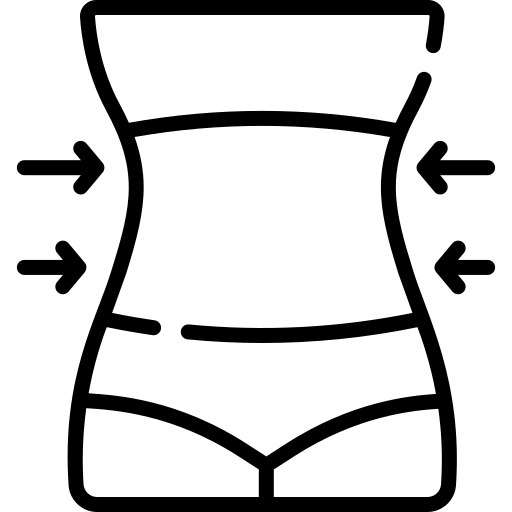
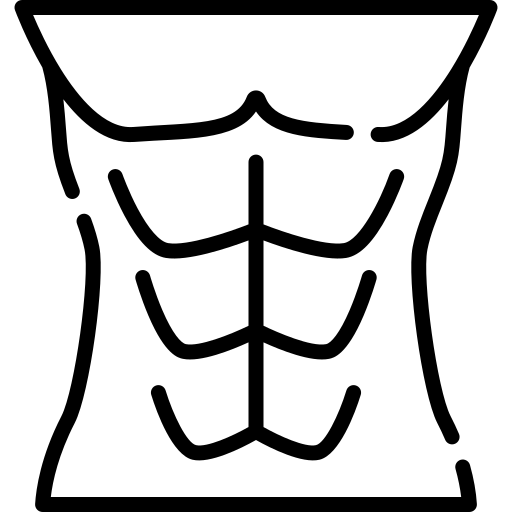
Working With Api Data Dispay

Changed region(s): [[0.0312, 0.0, 0.9688, 1.0]]

diff --git a/src/components/workout/Workout.jsx b/src/components/workout/Workout.jsx
@@ -4,11 +4,9 @@ import axios from 'axios';
 import back from '../../assets/workout_img/back.png'
 import cardio from '../../assets/workout_img/cardio.png'
 import chest from '../../assets/workout_img/chest.png'
-import lower_arms from '../../assets/workout_img/lower arms.png'
 import lower_legs from '../../assets/workout_img/lower legs.png'
 import neck from '../../assets/workout_img/neck.png'
 import upper_arms from '../../assets/workout_img/upper arms.png'
-import upper_legs from '../../assets/workout_img/upper legs.png'
 import shoulders from '../../assets/workout_img/shoulders.png'
 import waist from '../../assets/workout_img/waist.png'
 
@@ -16,13 +14,11 @@ const workoutImages = [
     {name: "back", url: back},
     {name: "cardio", url: cardio},
     {name: "chest", url: chest},
-    {name: "lower arms", url: lower_arms},
-    {name: "lower legs", url: lower_legs},
+    {name: "legs", url: lower_legs},
     {name: "neck", url: neck},
     {name: "shoulder", url: shoulders},
-    {name: "upper arms", url: upper_arms},
-    {name: "upper legs", url: upper_legs},
-    {name: "waist", url: waist},
+    {name: "arms", url: upper_arms},
+    {name: "Abs", url: waist},
 ]
 
 const shuffle = (array) => {
@@ -62,7 +58,7 @@ const Workout = () => {
     return (
     <>
     <section id='workout'>
-        <h2>Daily Workout</h2>
+        <h2>Home Workout</h2>
         <div className="container workout_container">
             <div className="workout_cards">
                {Workout.slice(0, visible).map((work, index) => {

diff --git a/src/components/Header/Header.jsx b/src/components/Header/Header.jsx
@@ -29,7 +29,7 @@ export const Header = () => {
                             <p className='react-icon'><MdFoodBank /></p>
                         </div>
                         <div className="info_icon_right">
-                            <h4>Daily Protien Tips</h4>
+                            <h4>Daily Motivation</h4>
                             <p>Lorem ipsum dolor sit amet consectetur.</p>
                         </div>
                     </div>
@@ -38,7 +38,7 @@ export const Header = () => {
                             <p className='react-icon'><MdFoodBank /></p>
                         </div>
                         <div className="info_icon_right">
-                            <h4>Daily Protien Tips</h4>
+                            <h4>Daily Health</h4>
                             <p>Lorem ipsum dolor sit amet consectetur.</p>
                         </div>
                     </div>
@@ -47,7 +47,7 @@ export const Header = () => {
                             <p className='react-icon'><MdFoodBank /></p>
                         </div>
                         <div className="info_icon_right">
-                            <h4>Daily Protien Tips</h4>
+                            <h4>News</h4>
                             <p>Lorem ipsum dolor sit amet consectetur.</p>
                         </div>
                     </div>

diff --git a/src/components/Api/Api.jsx b/src/components/Api/Api.jsx
@@ -49,7 +49,9 @@ export const Api = () => {
           {workouts.slice(0, loadmore).map((workout) => (
             <div className="api_result">
               <h2 key={workout.id}>{workout.exercise.toUpperCase()}</h2>
-              <img src={workout.gif_url} alt="" />
+              <div className="image_gif-container">
+                <img src={workout.gif_url} alt="" />
+              </div>
             </div>
           ))}
         </div>

diff --git a/src/components/Api/api.css b/src/components/Api/api.css
@@ -39,8 +39,14 @@
     color: var(--color-primary);
 }
 
+.image_gif-container {
+    object-fit: fill;
+}
+
 .api_result img {
+    width: 100%;
     border-radius: 1rem;
+    margin-top: 1rem;
 }
 
 .loadmore {
